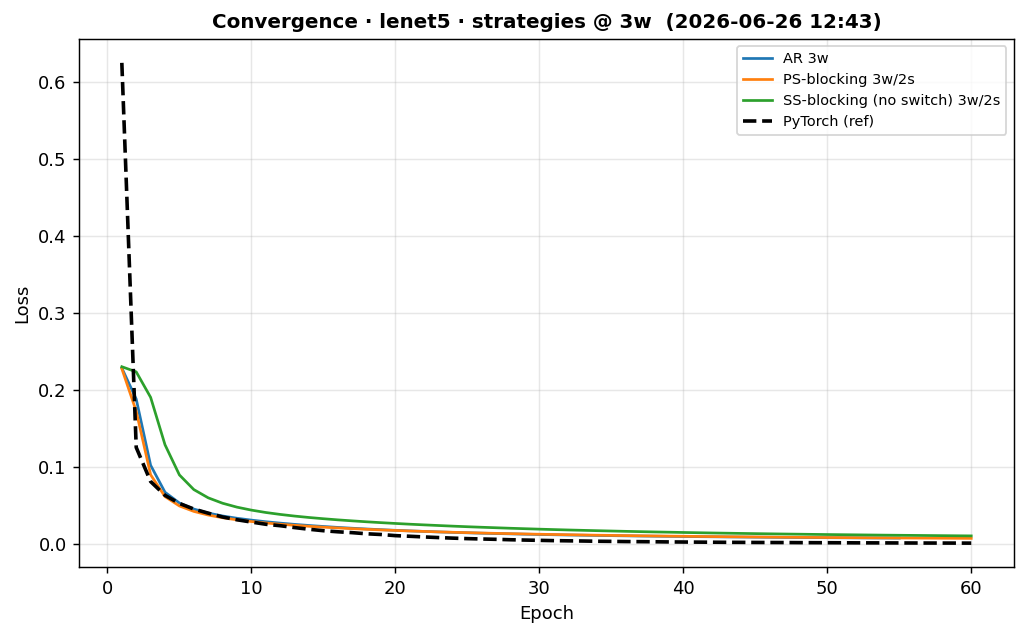
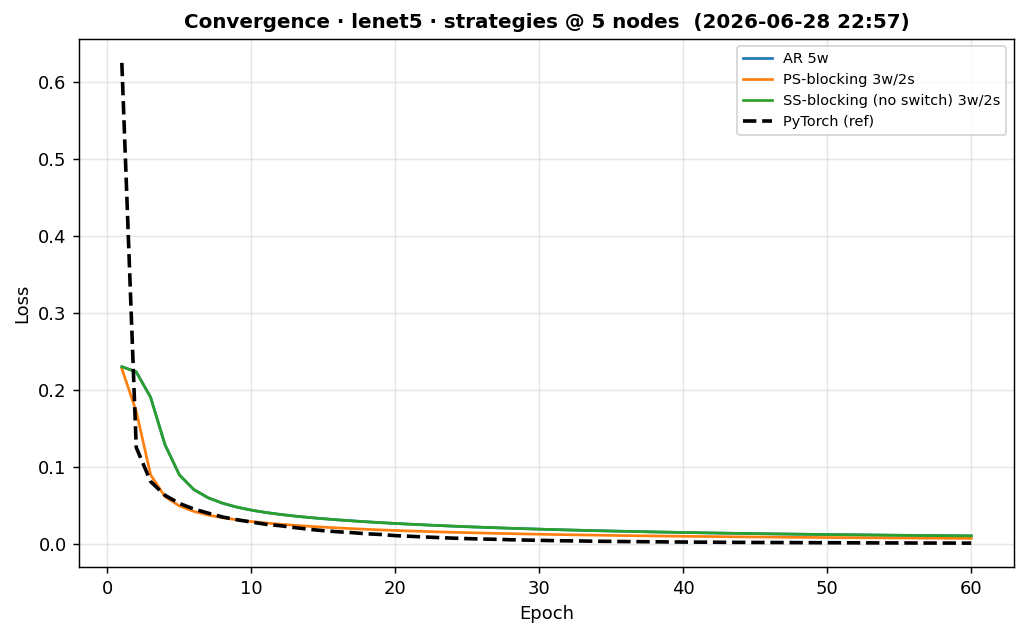
docs(benchmarks): regenerate plots and README from the fair-comparison run

diff --git a/benchmarks/README.md b/benchmarks/README.md
@@ -4,7 +4,7 @@ Compares the three distributed strategies — **parameter server**, **all-reduce
 
 ## Models
 
-- **Nielsen MNIST**: `28×28×1 → conv(20, 5×5) → maxpool(2×2) → dense(100) → dense(10) → softmax`.
+- **Nielsen MNIST**: `28×28×1 → conv(20, 5×5) → maxpool(2×2) → dense(100, sigmoid) → dense(10) → softmax`.
 - **LeNet5**: `conv(6, 5×5, pad2) → maxpool → conv(16, 5×5) → maxpool → dense(120) → dense(84) → dense(10)`, tanh + softmax.
 
 ### Hyper-parameters
@@ -38,27 +38,27 @@ Partial runs only re-run and re-plot the selected suite/model; every other suite
 
 All-reduce worker scale: [3, 5, 7] (configurable in `issue/suites.py`; the issue suggests 3/7/11 — kept lighter to fit one host).
 
-_Last full run: 4h 40m 34s (2026-06-26 02:14)._
+_Last full run: 4h 24m 41s (2026-06-28 22:57)._
 
 ## Convergence
 
-**Measures:** loss vs epoch and final test accuracy. Strategies are compared at a **fixed 3-worker** topology so the per-worker shard size and the cross-worker averaging frequency stay constant — the only fair way to attribute differences to the strategy. (Training is **Local SGD**: every worker runs SGD locally at `batch` per step over its data shard, then the updates are averaged across workers each epoch — the per-step batch is **not** `workers × batch`.) The all-reduce **worker-count sweep** lives in its own figure (more workers = smaller shards + more averaging). The dashed line is the single-process PyTorch reference (same recipe + same early-stopping rule).
+**Measures:** loss vs epoch and final test accuracy. Strategies are compared at a **fixed 5-node budget** (PS and SS are 3 workers + 2 servers; all-reduce runs 5 workers) so they spend the same hardware. We hold **nodes** fixed rather than **workers** because strategy switch all-reduces over *every* node until it switches, so a 3w/2s SS is really a 5-node run; at equal node budget it sits honestly next to all-reduce with that many workers instead of being mislabeled as a 3-worker run. (Training is **Local SGD**: every worker runs SGD locally at `batch` per step over its data shard, then the updates are averaged across workers each epoch — the per-step batch is **not** `workers × batch`.) The all-reduce **worker-count sweep** lives in its own figure (more workers = smaller shards + more averaging). The dashed line is the single-process PyTorch reference (same recipe + same early-stopping rule).
 **Does NOT measure:** wall-clock speed.
 
-| Model | Strategy | Topology | Batch/wkr | Epochs | Final loss | Accuracy |
-|---|---|---|---|---|---|---|
-| lenet5 | AR | 3w | 64 | 55 | 0.00759 | 0.978 |
-| lenet5 | AR | 5w | 64 | 60 | 0.0105 | 0.973 |
-| lenet5 | AR | 7w | 64 | 60 | 0.014 | 0.963 |
-| lenet5 | PS (blocking) | 3w/2s | 64 | 60 | 0.00723 | 0.980 |
-| lenet5 | SS (blocking) · no switch | 3w/2s | 64 | 60 | 0.0105 | 0.973 |
-| lenet5 | PyTorch (ref) | 1w | 64 | 60 | 0.00107 | 0.990 |
-| nielsen | AR | 3w | 10 | 52 | 0.00361 | 0.984 |
-| nielsen | AR | 5w | 10 | 60 | 0.00547 | 0.979 |
-| nielsen | AR | 7w | 10 | 60 | 0.00762 | 0.975 |
-| nielsen | PS (blocking) | 3w/2s | 10 | 60 | 0.00349 | 0.983 |
-| nielsen | SS (blocking) · no switch | 3w/2s | 10 | 60 | 0.00547 | 0.979 |
-| nielsen | PyTorch (ref) | 1w | 10 | 60 | 0.000222 | 0.989 |
+| Model | Strategy | Topology | lr | Batch/wkr | Epochs | Final loss | Accuracy |
+|---|---|---|---|---|---|---|---|
+| lenet5 | AR | 3w | 0.05 | 64 | 56 | 0.00756 | 0.978 |
+| lenet5 | AR | 5w | 0.05 | 64 | 60 | 0.0105 | 0.973 |
+| lenet5 | AR | 7w | 0.05 | 64 | 60 | 0.014 | 0.963 |
+| lenet5 | PS (blocking) | 3w/2s | 0.05 | 64 | 60 | 0.00723 | 0.980 |
+| lenet5 | SS (blocking) · no switch | 3w/2s | 0.05 | 64 | 60 | 0.0105 | 0.973 |
+| lenet5 | PyTorch (ref) | 1w | 0.05 | 64 | 60 | 0.00107 | 0.990 |
+| nielsen | AR | 3w | 0.1 | 10 | 52 | 0.00361 | 0.984 |
+| nielsen | AR | 5w | 0.1 | 10 | 60 | 0.00547 | 0.979 |
+| nielsen | AR | 7w | 0.1 | 10 | 60 | 0.00762 | 0.975 |
+| nielsen | PS (blocking) | 3w/2s | 0.1 | 10 | 60 | 0.00349 | 0.983 |
+| nielsen | SS (blocking) · no switch | 3w/2s | 0.1 | 10 | 60 | 0.00547 | 0.979 |
+| nielsen | PyTorch (ref) | 1w | 0.1 | 10 | 60 | 0.000222 | 0.989 |
 
 ![](plots/convergence_loss_nielsen.png)
 ![](plots/convergence_loss_lenet5.png)
@@ -74,29 +74,29 @@ _Last full run: 4h 40m 34s (2026-06-26 02:14)._
 
 | Model | Strategy | Topology | offline | batch | Samples/sec | Epochs/sec |
 |---|---|---|---|---|---|---|
-| lenet5 | AR | 3w | 0 | 64 | 2954 | 0.738 |
-| lenet5 | AR | 3w | 4 | 64 | 2987 | 0.747 |
-| lenet5 | AR | 3w | 0 | 256 | 3019 | 0.755 |
-| nielsen | AR | 3w | 0 | 64 | 3824 | 0.956 |
-| nielsen | AR | 3w | 4 | 64 | 3927 | 0.982 |
-| nielsen | AR | 3w | 0 | 256 | 3685 | 0.921 |
+| lenet5 | AR | 3w | 0 | 64 | 3015 ± 57 | 0.754 ± 0.0142 |
+| lenet5 | AR | 3w | 4 | 64 | 2976 ± 104 | 0.744 ± 0.0261 |
+| lenet5 | AR | 3w | 0 | 256 | 2921 ± 5 | 0.73 ± 0.00137 |
+| nielsen | AR | 3w | 0 | 64 | 3927 ± 165 | 0.982 ± 0.0414 |
+| nielsen | AR | 3w | 4 | 64 | 3553 ± 6 | 0.888 ± 0.00155 |
+| nielsen | AR | 3w | 0 | 256 | 3593 ± 147 | 0.898 ± 0.0367 |
 
 ![](plots/execution_speed_nielsen.png)
 ![](plots/execution_speed_lenet5.png)
 
 ## Convergence speed
 
-**Measures:** loss reduction/sec and accuracy/sec under one shared fixed budget at the same worker count (only the strategy changes). SS rows state whether the switch fired.
+**Measures:** loss reduction/sec and accuracy/sec under one shared fixed budget at the same 5-node budget (only the strategy changes). SS rows state whether the switch fired.
 **Does NOT measure:** peak accuracy.
 
 | Model | Strategy | Topology | Loss/sec | Accuracy/sec |
 |---|---|---|---|---|
-| lenet5 | AR | 3w | 0.000271 | 0.00121 |
-| lenet5 | PS (blocking) | 3w/2s | 0.000271 | 0.00121 |
-| lenet5 | SS (blocking) · no switch | 3w/2s | 0.000323 | 0.00144 |
-| nielsen | AR | 3w | 0.000164 | 0.00158 |
-| nielsen | PS (blocking) | 3w/2s | 0.000145 | 0.00141 |
-| nielsen | SS (blocking) · no switch | 3w/2s | 0.000246 | 0.00174 |
+| lenet5 | AR | 5w | 0.000327 | 0.00146 |
+| lenet5 | PS (blocking) | 3w/2s | 0.000262 | 0.00117 |
+| lenet5 | SS (blocking) · no switch | 3w/2s | 0.000327 | 0.00146 |
+| nielsen | AR | 5w | 0.000241 | 0.0017 |
+| nielsen | PS (blocking) | 3w/2s | 0.000149 | 0.00145 |
+| nielsen | SS (blocking) · no switch | 3w/2s | 0.000249 | 0.00176 |
 
 ![](plots/convergence_speed_nielsen.png)
 ![](plots/convergence_speed_lenet5.png)
@@ -108,26 +108,30 @@ _Last full run: 4h 40m 34s (2026-06-26 02:14)._
 
 | Model | Strategy | Workers | Nodes | Samples/sec |
 |---|---|---|---|---|
-| lenet5 | AR | 3 | 3 | 2982 |
-| lenet5 | AR | 5 | 5 | 3607 |
-| lenet5 | AR | 7 | 7 | 4450 |
-| lenet5 | PS (blocking) | 2 | 3 | 2301 |
-| lenet5 | PS (blocking) | 3 | 5 | 3034 |
-| nielsen | AR | 3 | 3 | 3578 |
-| nielsen | AR | 5 | 5 | 4709 |
-| nielsen | AR | 7 | 7 | 5445 |
-| nielsen | PS (blocking) | 2 | 3 | 3024 |
-| nielsen | PS (blocking) | 3 | 5 | 3926 |
+| lenet5 | AR | 3 | 3 | 2979 ± 165 |
+| lenet5 | AR | 5 | 5 | 3607 ± 28 |
+| lenet5 | AR | 7 | 7 | 4193 ± 236 |
+| lenet5 | PS (blocking) | 3 | 5 | 3013 ± 24 |
+| lenet5 | PS (blocking) | 5 | 7 | 3924 ± 36 |
+| nielsen | AR | 3 | 3 | 3688 ± 183 |
+| nielsen | AR | 5 | 5 | 4622 ± 38 |
+| nielsen | AR | 7 | 7 | 5213 ± 191 |
+| nielsen | PS (blocking) | 3 | 5 | 3962 ± 4 |
+| nielsen | PS (blocking) | 5 | 7 | 5049 ± 59 |
 
 ![](plots/scalability_nielsen.png)
 ![](plots/scalability_lenet5.png)
 
 ## Methodology & fairness
 
-- **Local SGD, not large-batch.** Each worker runs SGD locally at the per-worker `batch` over its data shard, then the updates are averaged across workers each epoch (FedAvg-style). The per-step batch is **not** `workers × batch`. Adding workers shards the data finer and averages more often, which is what shifts convergence — so the strategy comparison fixes the worker count and the worker-count sweep is shown separately. The single-process baseline uses the same per-step batch, so it is a like-for-like reference, not an over-batched one.
+- **Local SGD, not large-batch.** Each worker runs SGD locally at the per-worker `batch` over its data shard, then the updates are averaged across workers each epoch (FedAvg-style). The per-step batch is **not** `workers × batch`. Adding workers shards the data finer and averages more often, which is what shifts convergence — so the strategy comparison fixes the total node budget (workers + servers) and the worker-count sweep is shown separately. The single-process baseline uses the same per-step batch, so it is a like-for-like reference, not an over-batched one.
 - **Batch differs across suites.** Speed/scalability use a larger batch on a subset (they only need throughput), so their numbers do **not** transfer to the convergence config (e.g. Nielsen converges at batch 10 but is benchmarked for speed at batch 64/256 — ~6× faster there).
 - **Throughput = samples/sec**, not epochs/sec: an epoch with a bigger batch has fewer steps, so epochs/sec would reward batch size by construction.
+- **Accuracy** is measured **once, after training**, over the **full 10,000-sample MNIST test set** (`t10k`): the trained weights are loaded into the PyTorch argmax reference and scored on every test sample — not sampled, not evaluated periodically, so there is no mid-training eval cost folded into `train_seconds`.
+- **What `train_seconds` measures.** Host wall-clock of `orchestrate().wait()`. Every node runs as a Docker container **on a single host**, so (a) compute runs in genuine parallel only up to the host core count (~8 cores here — readings past ~8 total nodes oversubscribe and stop being honest) and (b) the network is **loopback**, so inter-node communication is far cheaper than a real multi-machine cluster. Read samples/sec and scalability as a **single-host lower bound on comms cost**, not a true distributed measurement.
+- **`loss/sec` and `accuracy/sec` divide by total time**, so they reward raw speed: a faster strategy that plateaus at a slightly lower final accuracy can still score higher than a slower one that converges better. Always read them next to the final accuracy, never alone.
 - **Loss scale.** The distributed `loss` is the mean across workers of each worker's epoch-mean cross-entropy; the PyTorch baseline is the global epoch-mean cross-entropy — same scale, directly comparable. (Early stopping on the distributed side keys off the per-epoch **max** worker loss; for the 1-worker baseline max = mean.)
+- **Cross-entropy on logits, softmax once.** The PyTorch baseline computes the loss with `F.cross_entropy` on raw logits, which folds the softmax into the loss, so the distribution is normalized once — same softmax-then-cross-entropy the orchestra trainer applies. The final softmax is only materialized for the argmax accuracy, where it does not change the result.
 - **Early stopping** (both distributed and baseline): stop after 3 consecutive epochs whose loss delta stays within `1e-4` (mirrors the orchestrator's `ConvergenceTracker`).
 - **Repeats.** `--repeats N` repeats the throughput suites (execution-speed, scalability) N times — tables show `mean ± std` and bars carry error bars. The expensive convergence suites always run once (their loss/sec numbers are single-shot).
 
